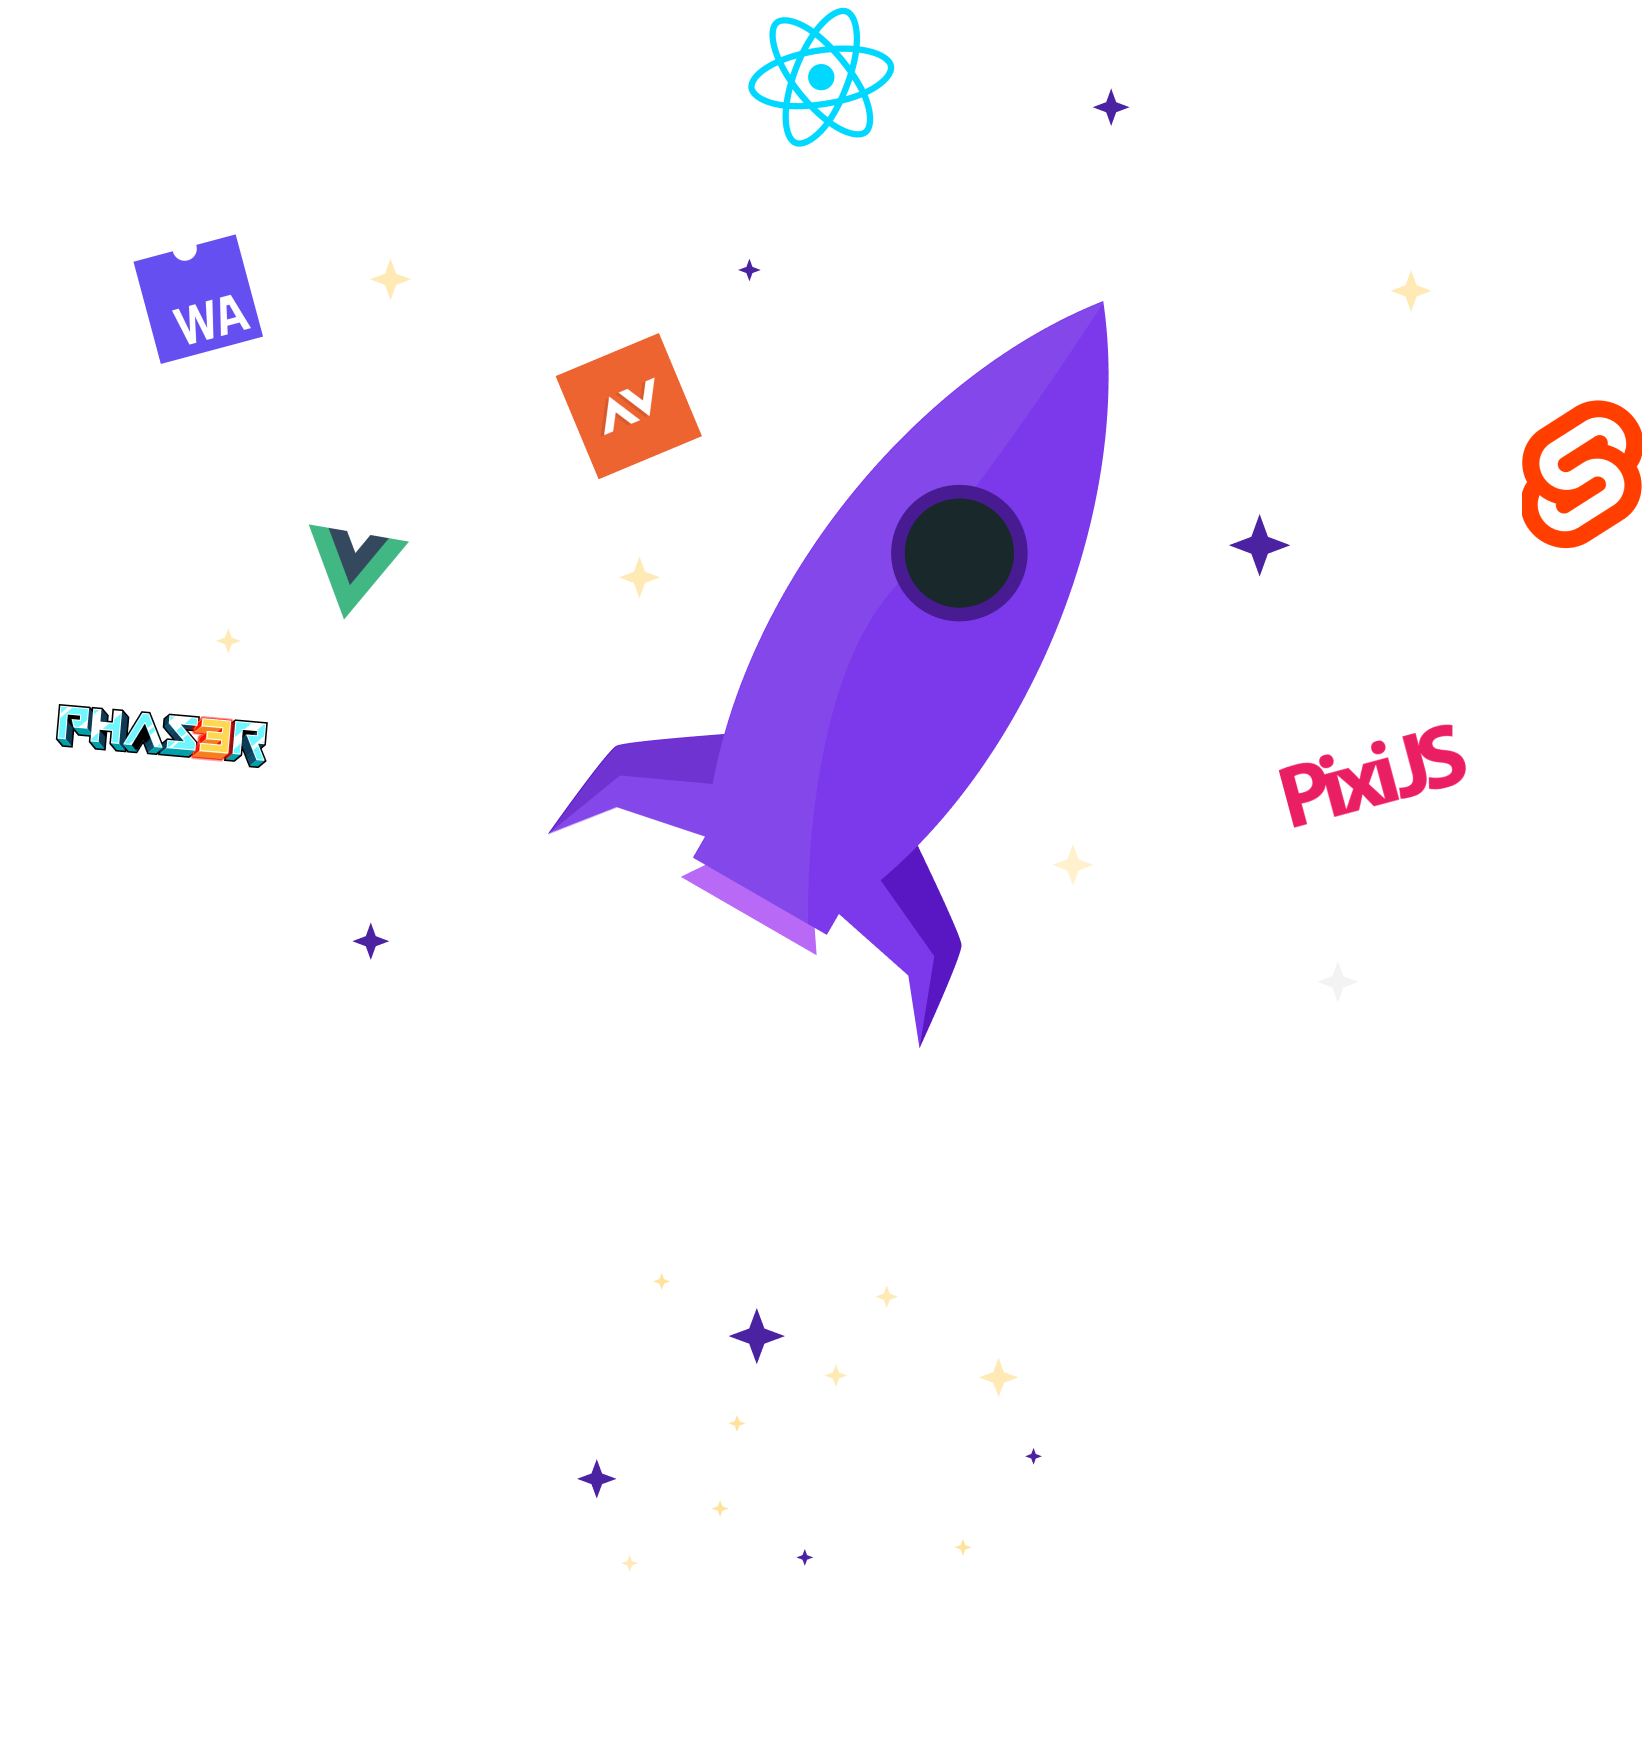
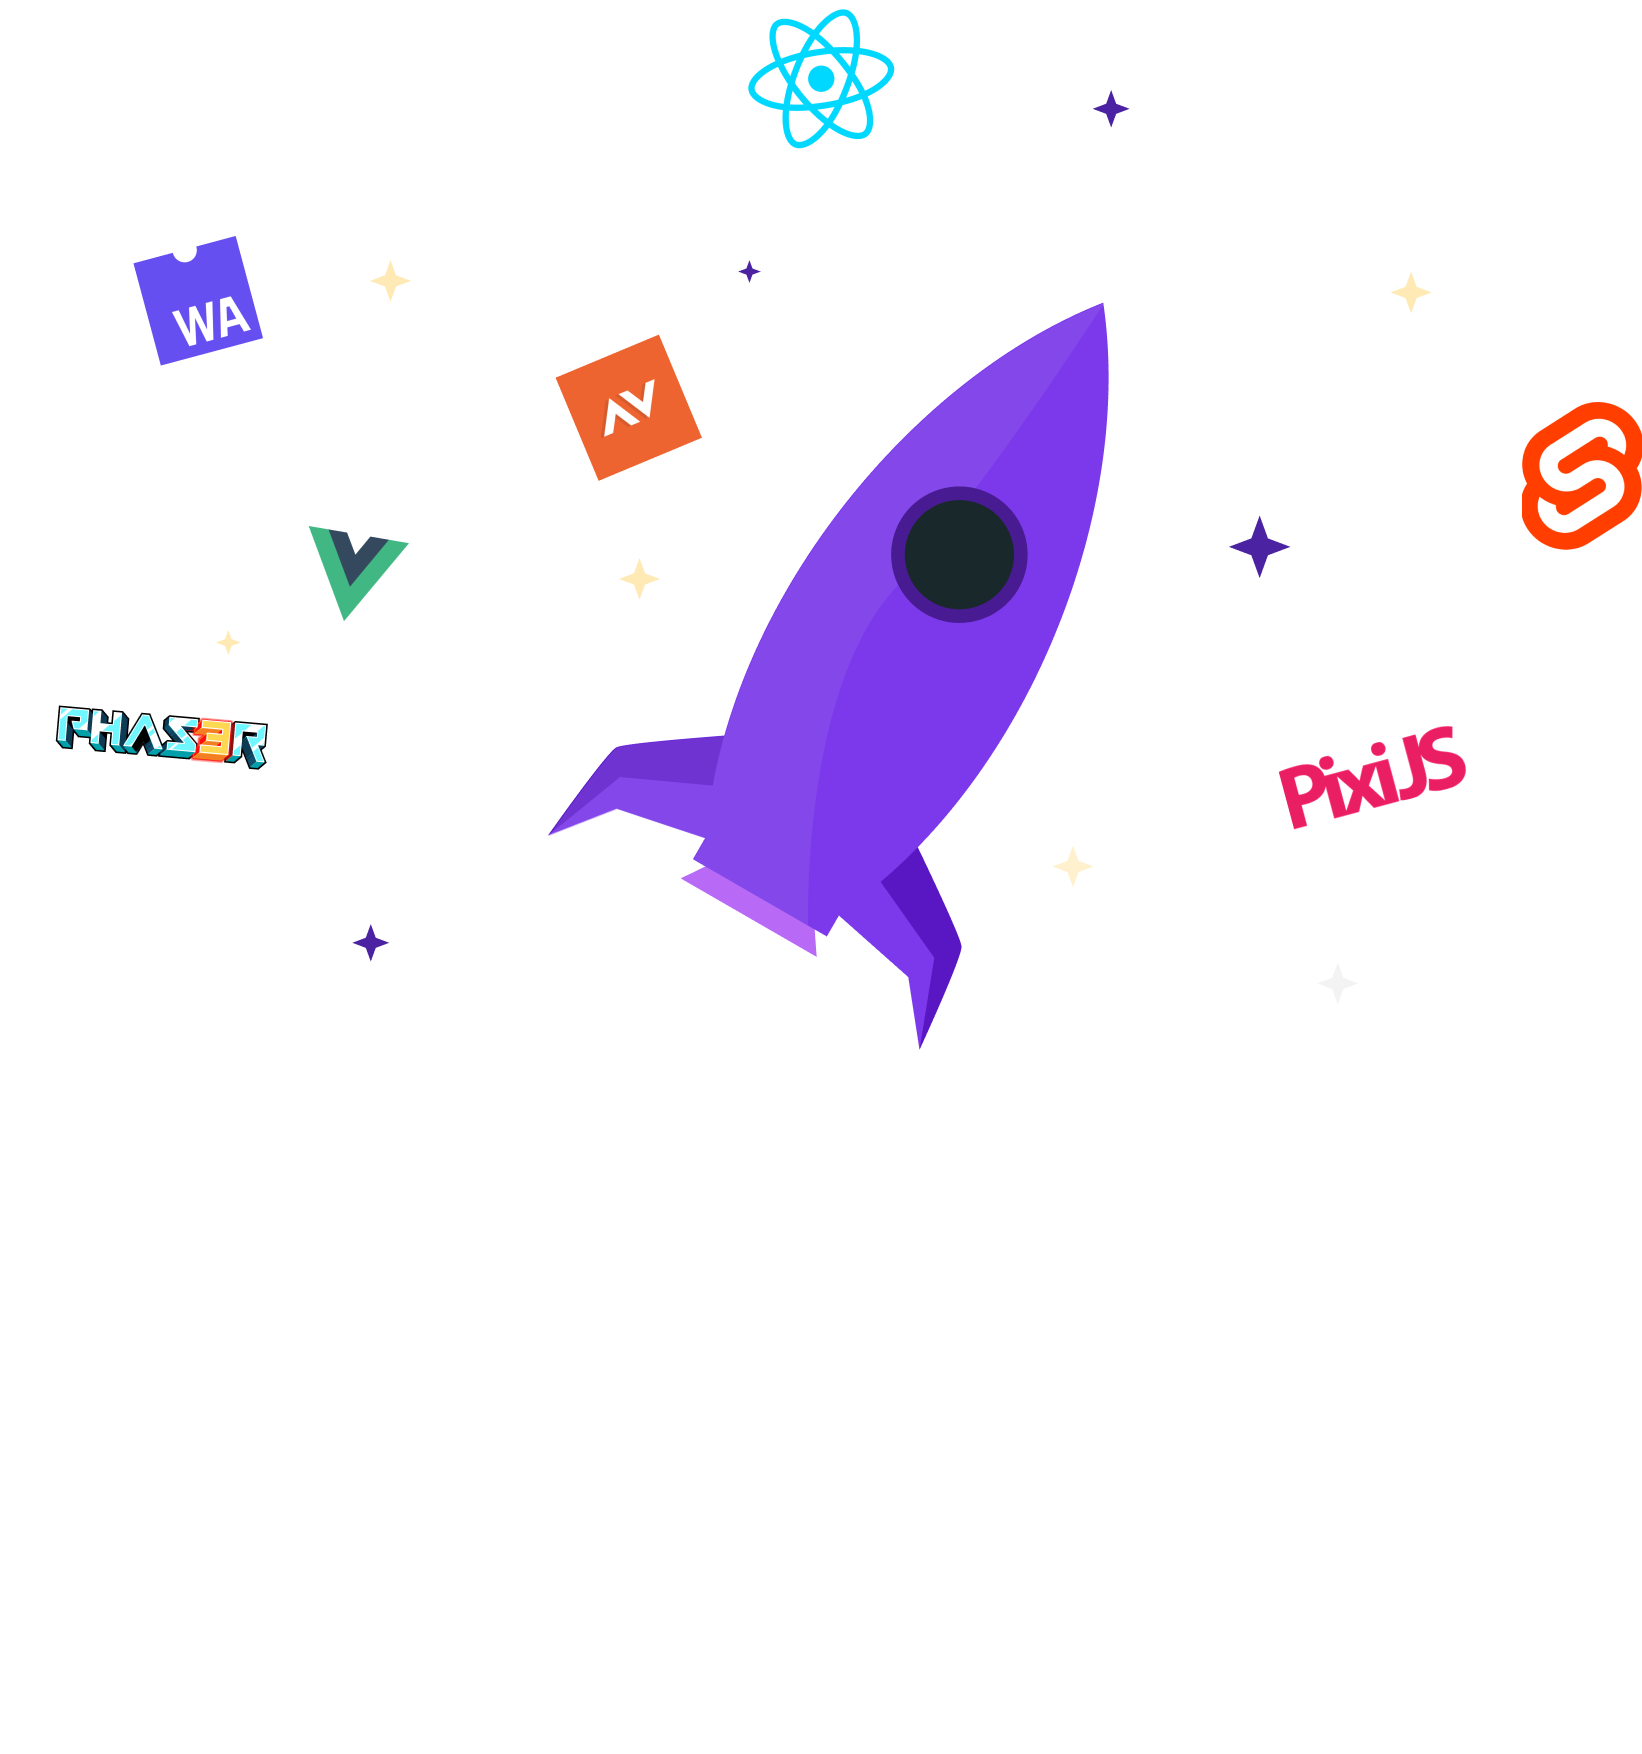
update cta + fix game preview

diff --git a/docs/src/pages/index.module.scss b/docs/src/pages/index.module.scss
@@ -171,6 +171,12 @@
     line-height: normal;
     letter-spacing: -1.12px;
 
+    @media (max-width: 996px) {
+      font-size: 32px;
+      line-height: 32px;
+      letter-spacing: -0.64px;
+    }
+
     background: var(
       --Gradient-Shine,
       linear-gradient(242deg, #eeedff 7.25%, #b2adff 92.6%)
@@ -310,7 +316,7 @@
     }
 
     .gameInfo {
-      left: calc(50% + 50px);
+      left: 505px;
       top: 150px;
       position: absolute;
       z-index: 1;
@@ -320,7 +326,7 @@
       box-shadow: 0px 3.596px 35.955px 0px rgba(0, 0, 0, 0.25);
 
       @media (max-width: 996px) {
-        left: calc(50% - 20px);
+        left: 150px;
         top: 60px;
         transform: scale(0.59);
       }
@@ -402,7 +408,7 @@
     margin: 225px 0;
 
     @media (max-width: 996px) {
-      margin: 150px 0;
+      margin: 136px 0;
     }
 
     h2 {
@@ -484,10 +490,18 @@
 
   .cta {
     width: 100%;
-    height: 876px;
-    background: url("@site/static/img/home/cta.png") no-repeat center
-      center/853px 876.21px;
-    padding-top: 556px;
+    background: url("@site/static/img/home/cta.png") no-repeat top center/820px
+      876px;
+    padding-top: 566px;
+    margin-bottom: 211px;
+
+    @media (max-width: 996px) {
+      min-height: 323px;
+      background: url("@site/static/img/home/cta.png") no-repeat top
+        center/302px 323px;
+      padding-top: 227px;
+      margin-bottom: 95px;
+    }
 
     display: flex;
     flex-direction: column;
@@ -495,6 +509,10 @@
 
     > :not(:first-child) {
       margin-top: 64px;
+
+      @media (max-width: 996px) {
+        margin-top: 48px;
+      }
     }
   }
 }
@@ -513,6 +531,8 @@
 }
 
 .ctaButton {
+  flex-shrink: 0;
+
   padding: 0 32px;
   border-radius: 100px;
   background: white;

diff --git a/docs/src/pages/index.js b/docs/src/pages/index.js
@@ -184,7 +184,7 @@ const videos = [
             "https://app.rune.ai/avatar?base=2&hair=44&tilt=0&headgear=56&accessory=66&background=72&expression=14&size=90&isCropped=1&isBackgroundTransparent=0",
         },
         {
-          name: "Shane",
+          name: "shanehelm",
           avatar:
             "https://app.rune.ai/avatar?base=9&hair=49&tilt=1&headgear=76&accessory=66&background=97&expression=15&size=90&isCropped=1&isBackgroundTransparent=0",
         },
